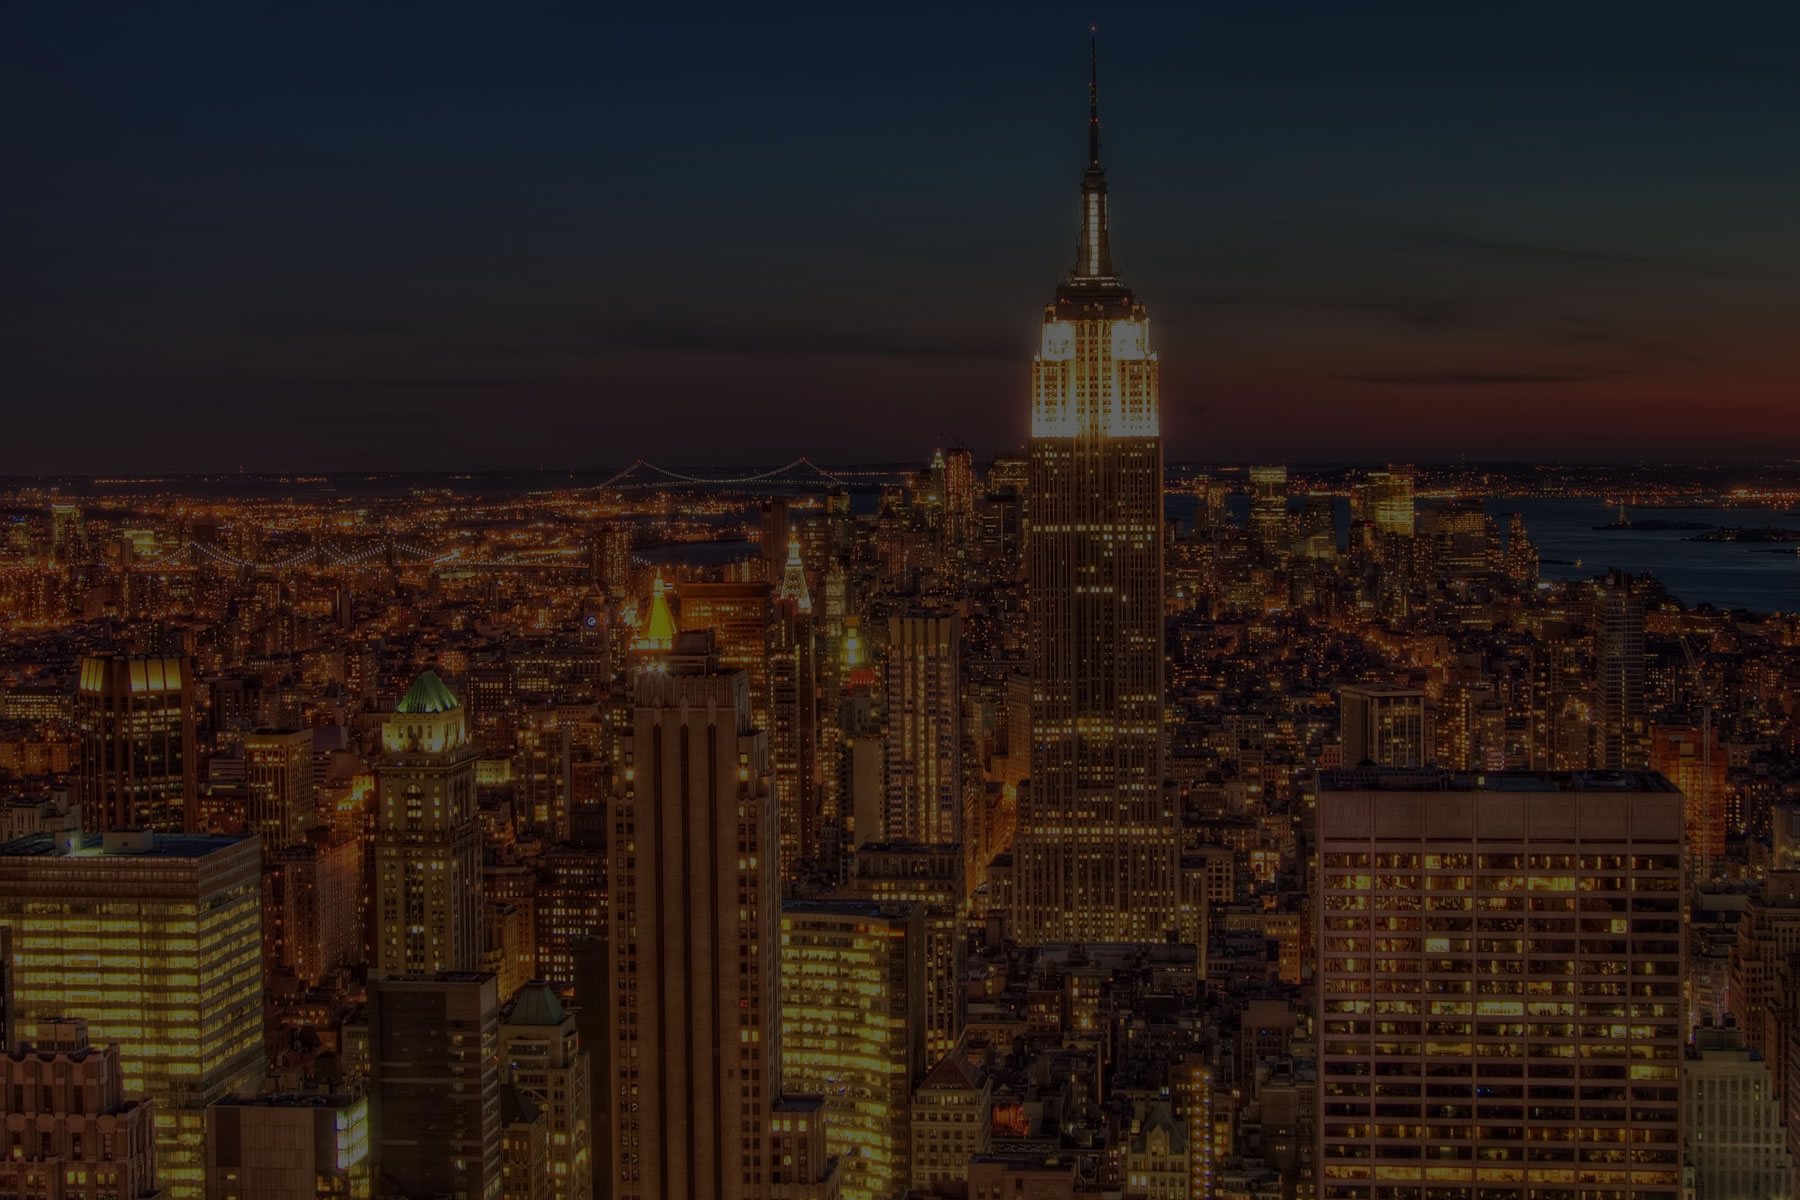
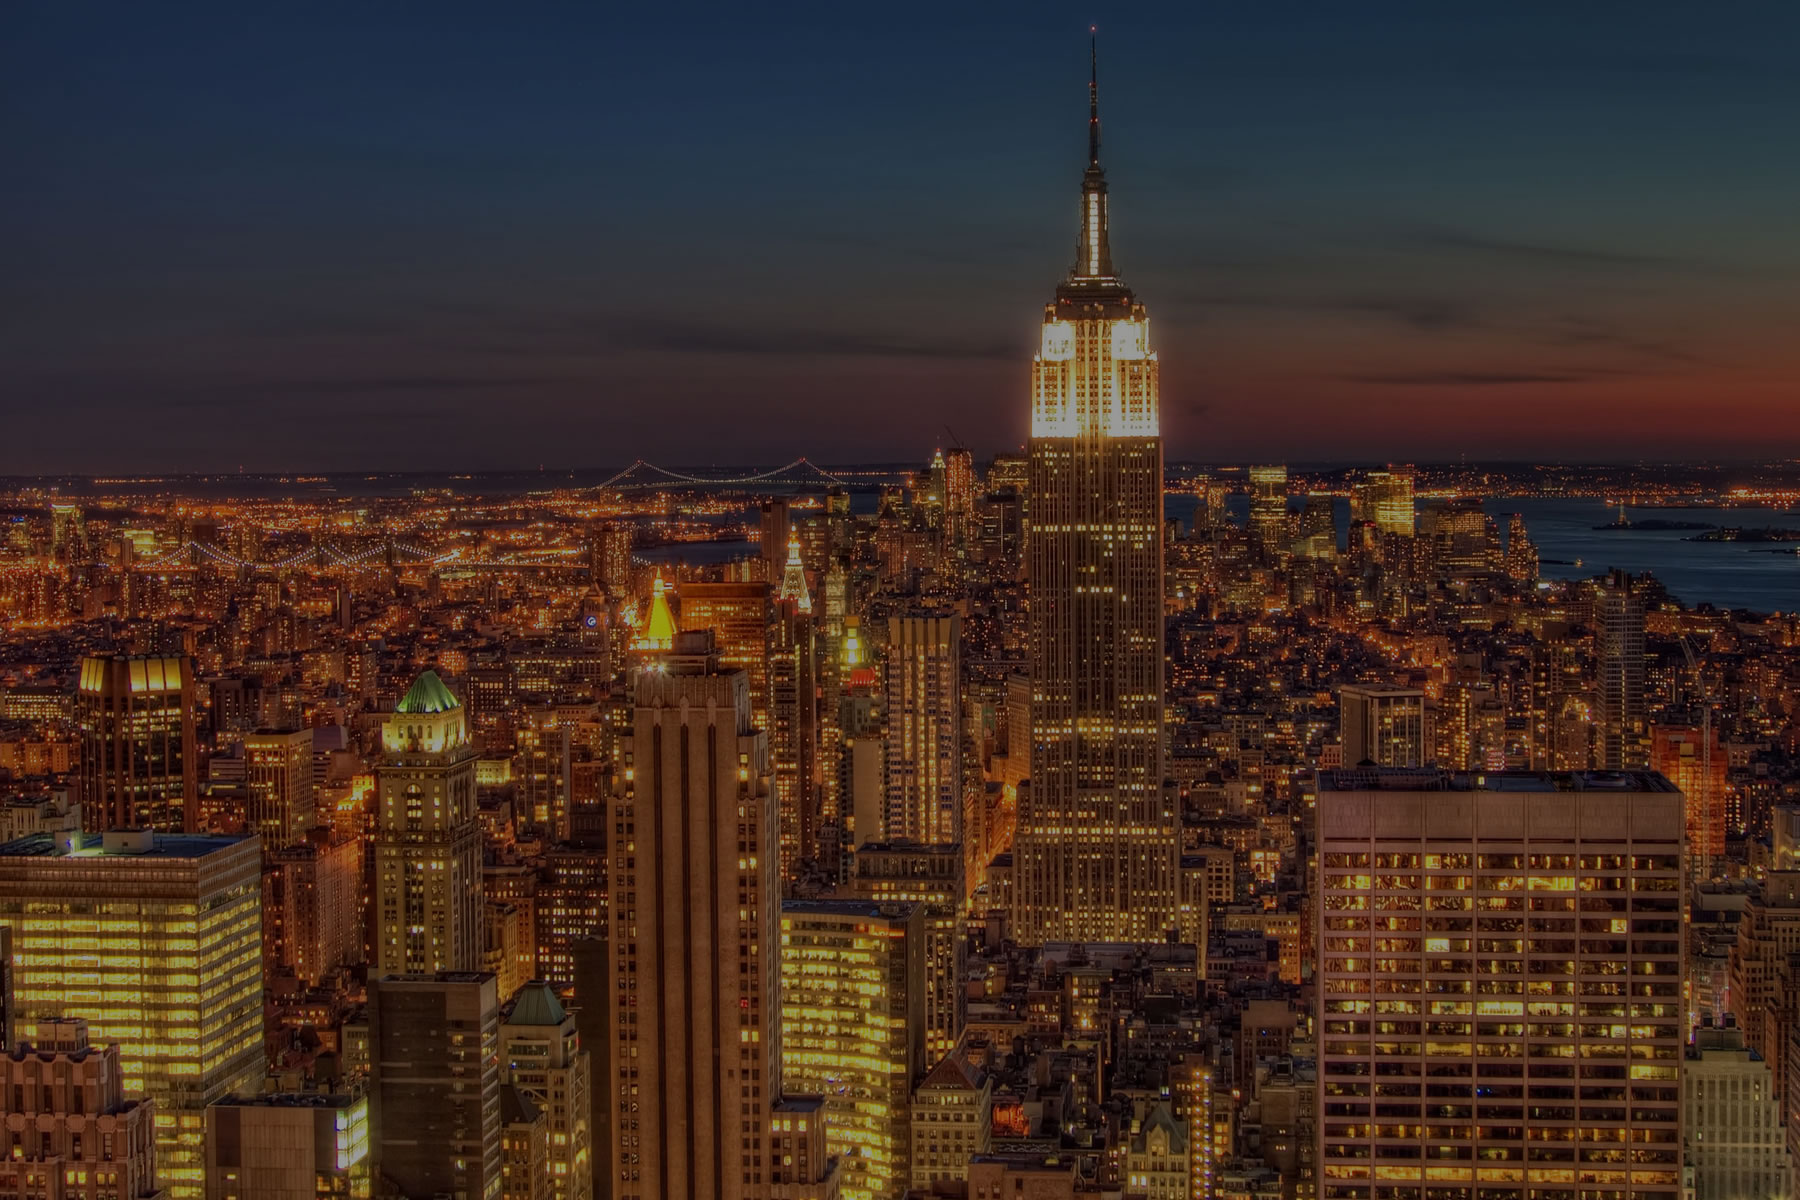
Modified bg images

diff --git a/index-1.html b/index-1.html
@@ -97,11 +97,11 @@
                             </div>
                         </div>
                     </div>
-                    <div class="banner-img banner-2" data-stellar-background-ratio="0.5" data-stellar-vertical-offset="0"
-                         data-stellar-offset-parent="true">
+                    <div class="banner-img banner-2" data-stellar-background-ratio="0.5"  data-stellar-offset-parent="true">
                     <div class="row flex-wrap sub-intro">
                         <div class="unit-80 centered">
                             <div class="row end pad list-wrap">
+                                <img src="img/bus-left.png" alt=""/>
                                 <div class="unit-100">
                                     <h3>One Day Trips</h3>
 
@@ -142,6 +142,7 @@
                                 </div>
                             </div>
                             <div class="row end pad list-wrap">
+                                <img class="left-animate" src="img/flying-jet.png" alt=""/>
                                 <div class="unit-100">
                                     <h3>Multi Day Trips</h3>
                                     <div class="unit-100 list-wrap-50">
@@ -227,10 +228,10 @@
                 <div class="unit-30">
                     <h3>Progressive Travelers</h3>
 
-                    <p>Gloria Griffin
-                        P.O. Box 174
-                        Lansdowne, Pennsylvania 19050
-                        Fax: 610.622.6145
+                    <p>Gloria Griffin<br>
+                        P.O. Box 174<br>
+                        Lansdowne, Pennsylvania 19050<br>
+                        Fax: 610.622.6145<br>
                         Email: progressivetravelers@comcast.net</p>
                 </div>
             </div>

diff --git a/css/style.css b/css/style.css
@@ -279,19 +279,19 @@ h3,
 h4,
 h5,
 h6 {
-  font-family: "nexa_boldregular", "AvenirLTStd-Roman", "riccione-mediumregular";
-  font-weight: 200;
+  font-family: "AvenirLTStd-Roman", "nexa_boldregular", "AvenirLTStd-Roman", "riccione-mediumregular";
+  font-weight: 100;
   color: #EE7404;
-  letter-spacing: .05rem;
+  letter-spacing: .25rem;
   text-rendering: optimizeLegibility;
   text-transform: uppercase;
 }
 
 h1 {
-  font-size: 42px;
-  font-family: "nexa_boldregular", "AvenirLTStd-Roman", "riccione-boldregular";
-  font-weight: 900;
-  letter-spacing: .1rem;
+  font-size: 30px;
+  font-family: "AvenirLTStd-Roman", "nexa_boldregular", "AvenirLTStd-Roman", "riccione-boldregular";
+  font-weight: 100;
+  letter-spacing: 5px;
   line-height: 1.111em;
   margin-bottom: 1rem;
   text-transform: uppercase;
@@ -299,13 +299,13 @@ h1 {
 
 h2 {
   color: #555;
-  font-size: 26px;
+  font-size: 20px;
   line-height: 1.111em;
   margin-bottom: .75rem;
 }
 
 h3 {
-  font-size: 34px;
+  font-size: 24px;
   line-height: 1.333em;
   margin-bottom: .5em;
 }
@@ -1614,7 +1614,6 @@ Banner
 }
 
 .banner-img div p {
-  font-size: 1.25rem;
   line-height: 1.75;
 }
 
@@ -1629,7 +1628,7 @@ Banner
 }
 
 .banner-2 {
-  background: url("../img/img-16.jpg") 0 0 no-repeat;
+  background: url("../img/img-14.jpg") 0 0 no-repeat;
   height: 100%;
 }
 
@@ -1644,7 +1643,7 @@ Main
 ==================================================
 */
 .canvas {
-  background: url("../img/map_135.png") center 900px no-repeat;
+  background: url("../img/map_135.png") center 75f 0px no-repeat;
   margin: 0 auto;
   padding: 0 1rem;
 }
@@ -1759,6 +1758,11 @@ footer .row h3 {
 
 .list-wrap {
   background: rgba(0, 0, 0, 0.5);
+}
+
+.list-wrap > img {
+  display: block;
+  margin: 0 auto;
 }
 
 .list-wrap-33 ul {

diff --git a/scss/_variables.scss b/scss/_variables.scss
@@ -1,7 +1,7 @@
 // Font
 $baseFontFamily: 'nexa_lightregular', 'riccione-lightregular', sans-serif;
-$headingsFontFamily: 'nexa_boldregular', 'AvenirLTStd-Roman', 'riccione-boldregular';
-$subheadingsFontFamily: 'nexa_boldregular', 'AvenirLTStd-Roman', 'riccione-mediumregular';
+$headingsFontFamily: 'AvenirLTStd-Roman', 'nexa_boldregular', 'AvenirLTStd-Roman', 'riccione-boldregular';
+$subheadingsFontFamily: 'AvenirLTStd-Roman', 'nexa_boldregular', 'AvenirLTStd-Roman', 'riccione-mediumregular';
 $controlsFontFamily: $baseFontFamily;
 $codeFontFamily: Menlo, Monaco, Consolas, "Courier New", monospace;
 
@@ -22,9 +22,9 @@ $baseLine: $baseFontSize * $baseLineHeight;
 $baseLineInEms: $baseLine / $baseFontSize;
 
 // Heading
-$h1FontSize: $baseFontSize + 28px; // 50px
-$h2FontSize: $baseFontSize + 12px; // 22px
-$h3FontSize: $baseFontSize + 20px; // 24px
+$h1FontSize: $baseFontSize + 16px; // 50px
+$h2FontSize: $baseFontSize + 6px; // 22px
+$h3FontSize: $baseFontSize + 10px; // 24px
 $h4FontSize: $baseFontSize + 4px; // 18px
 $h5FontSize: $baseFontSize + 0px; // 14px
 $h6FontSize: $baseFontSize - 2px; // 12px

diff --git a/scss/_typography.scss b/scss/_typography.scss
@@ -30,9 +30,9 @@ h4,
 h5,
 h6 {
     font-family: $subheadingsFontFamily;
-    font-weight: 200;
+    font-weight: 100;
     color: $colorHighlight;
-    letter-spacing: .05rem;
+    letter-spacing: .25rem;
     //text-align: center;
     text-rendering: optimizeLegibility;
     text-transform: uppercase;
@@ -40,8 +40,8 @@ h6 {
 h1 {
     font-size: $h1FontSize;
     font-family: $headingsFontFamily;
-    font-weight: 900;
-    letter-spacing: .1rem;
+    font-weight: 100;
+    letter-spacing: 5px;
     line-height: 1.111em;
     margin-bottom: 1rem;
     //text-align: center;

diff --git a/scss/_banner.scss b/scss/_banner.scss
@@ -86,7 +86,7 @@ Banner
       color: rgba(255,255,255,.75);
     }
     p {
-      font-size: 1.25rem;
+      //font-size: 1.25rem;
       line-height: 1.75;
     }
   }
@@ -106,7 +106,7 @@ Banner
   //height: 100%;
 }
 .banner-2 {
-  background: url("../img/img-16.jpg") 0 0 no-repeat;
+  background: url("../img/img-14.jpg") 0 0 no-repeat; //img-11, img-13, img-14, img-15, img-18, img-20
   //background-position: 0 0 !important;
   height: 100%;
 }

diff --git a/scss/_main.scss b/scss/_main.scss
@@ -5,7 +5,7 @@ Main
 */
 
 .canvas {
-  background: url("../img/map_135.png") center 900px no-repeat;
+  background: url("../img/map_135.png") center 75f0px no-repeat;
   margin: 0 auto;
   padding: 0 1rem;
 }
@@ -125,6 +125,11 @@ footer {
 }
 .list-wrap {
   background: rgba(0,0,0,.5);
+  
+  >img {
+    display: block;
+    margin: 0 auto;
+  }
 }
 .list-wrap-33 {
   
